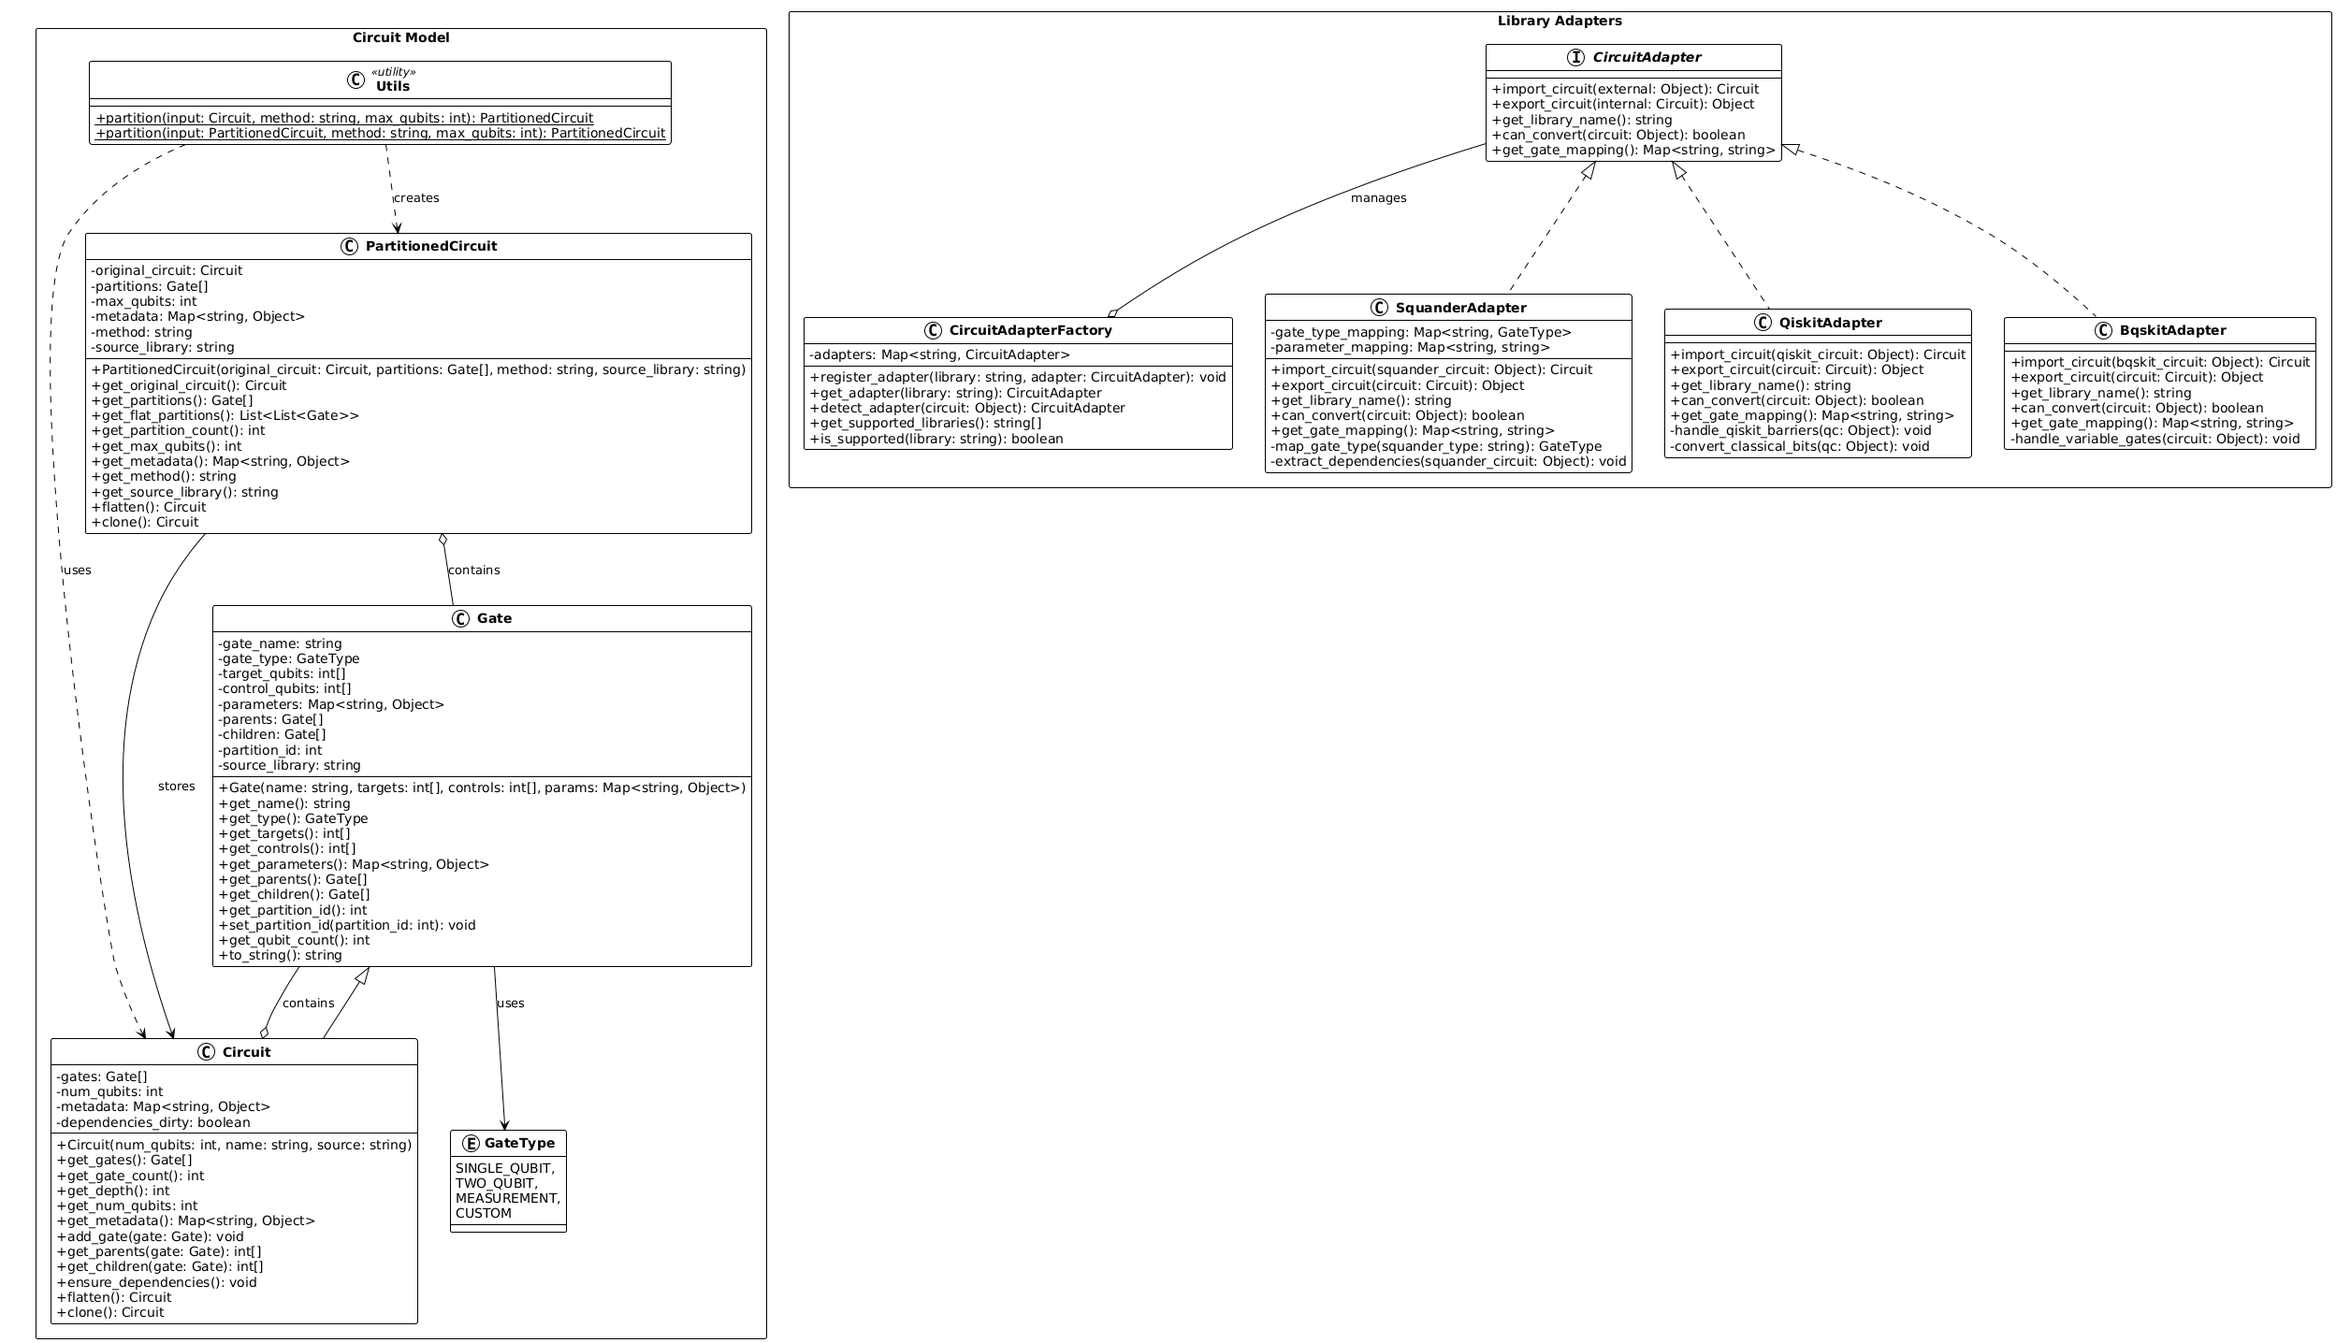
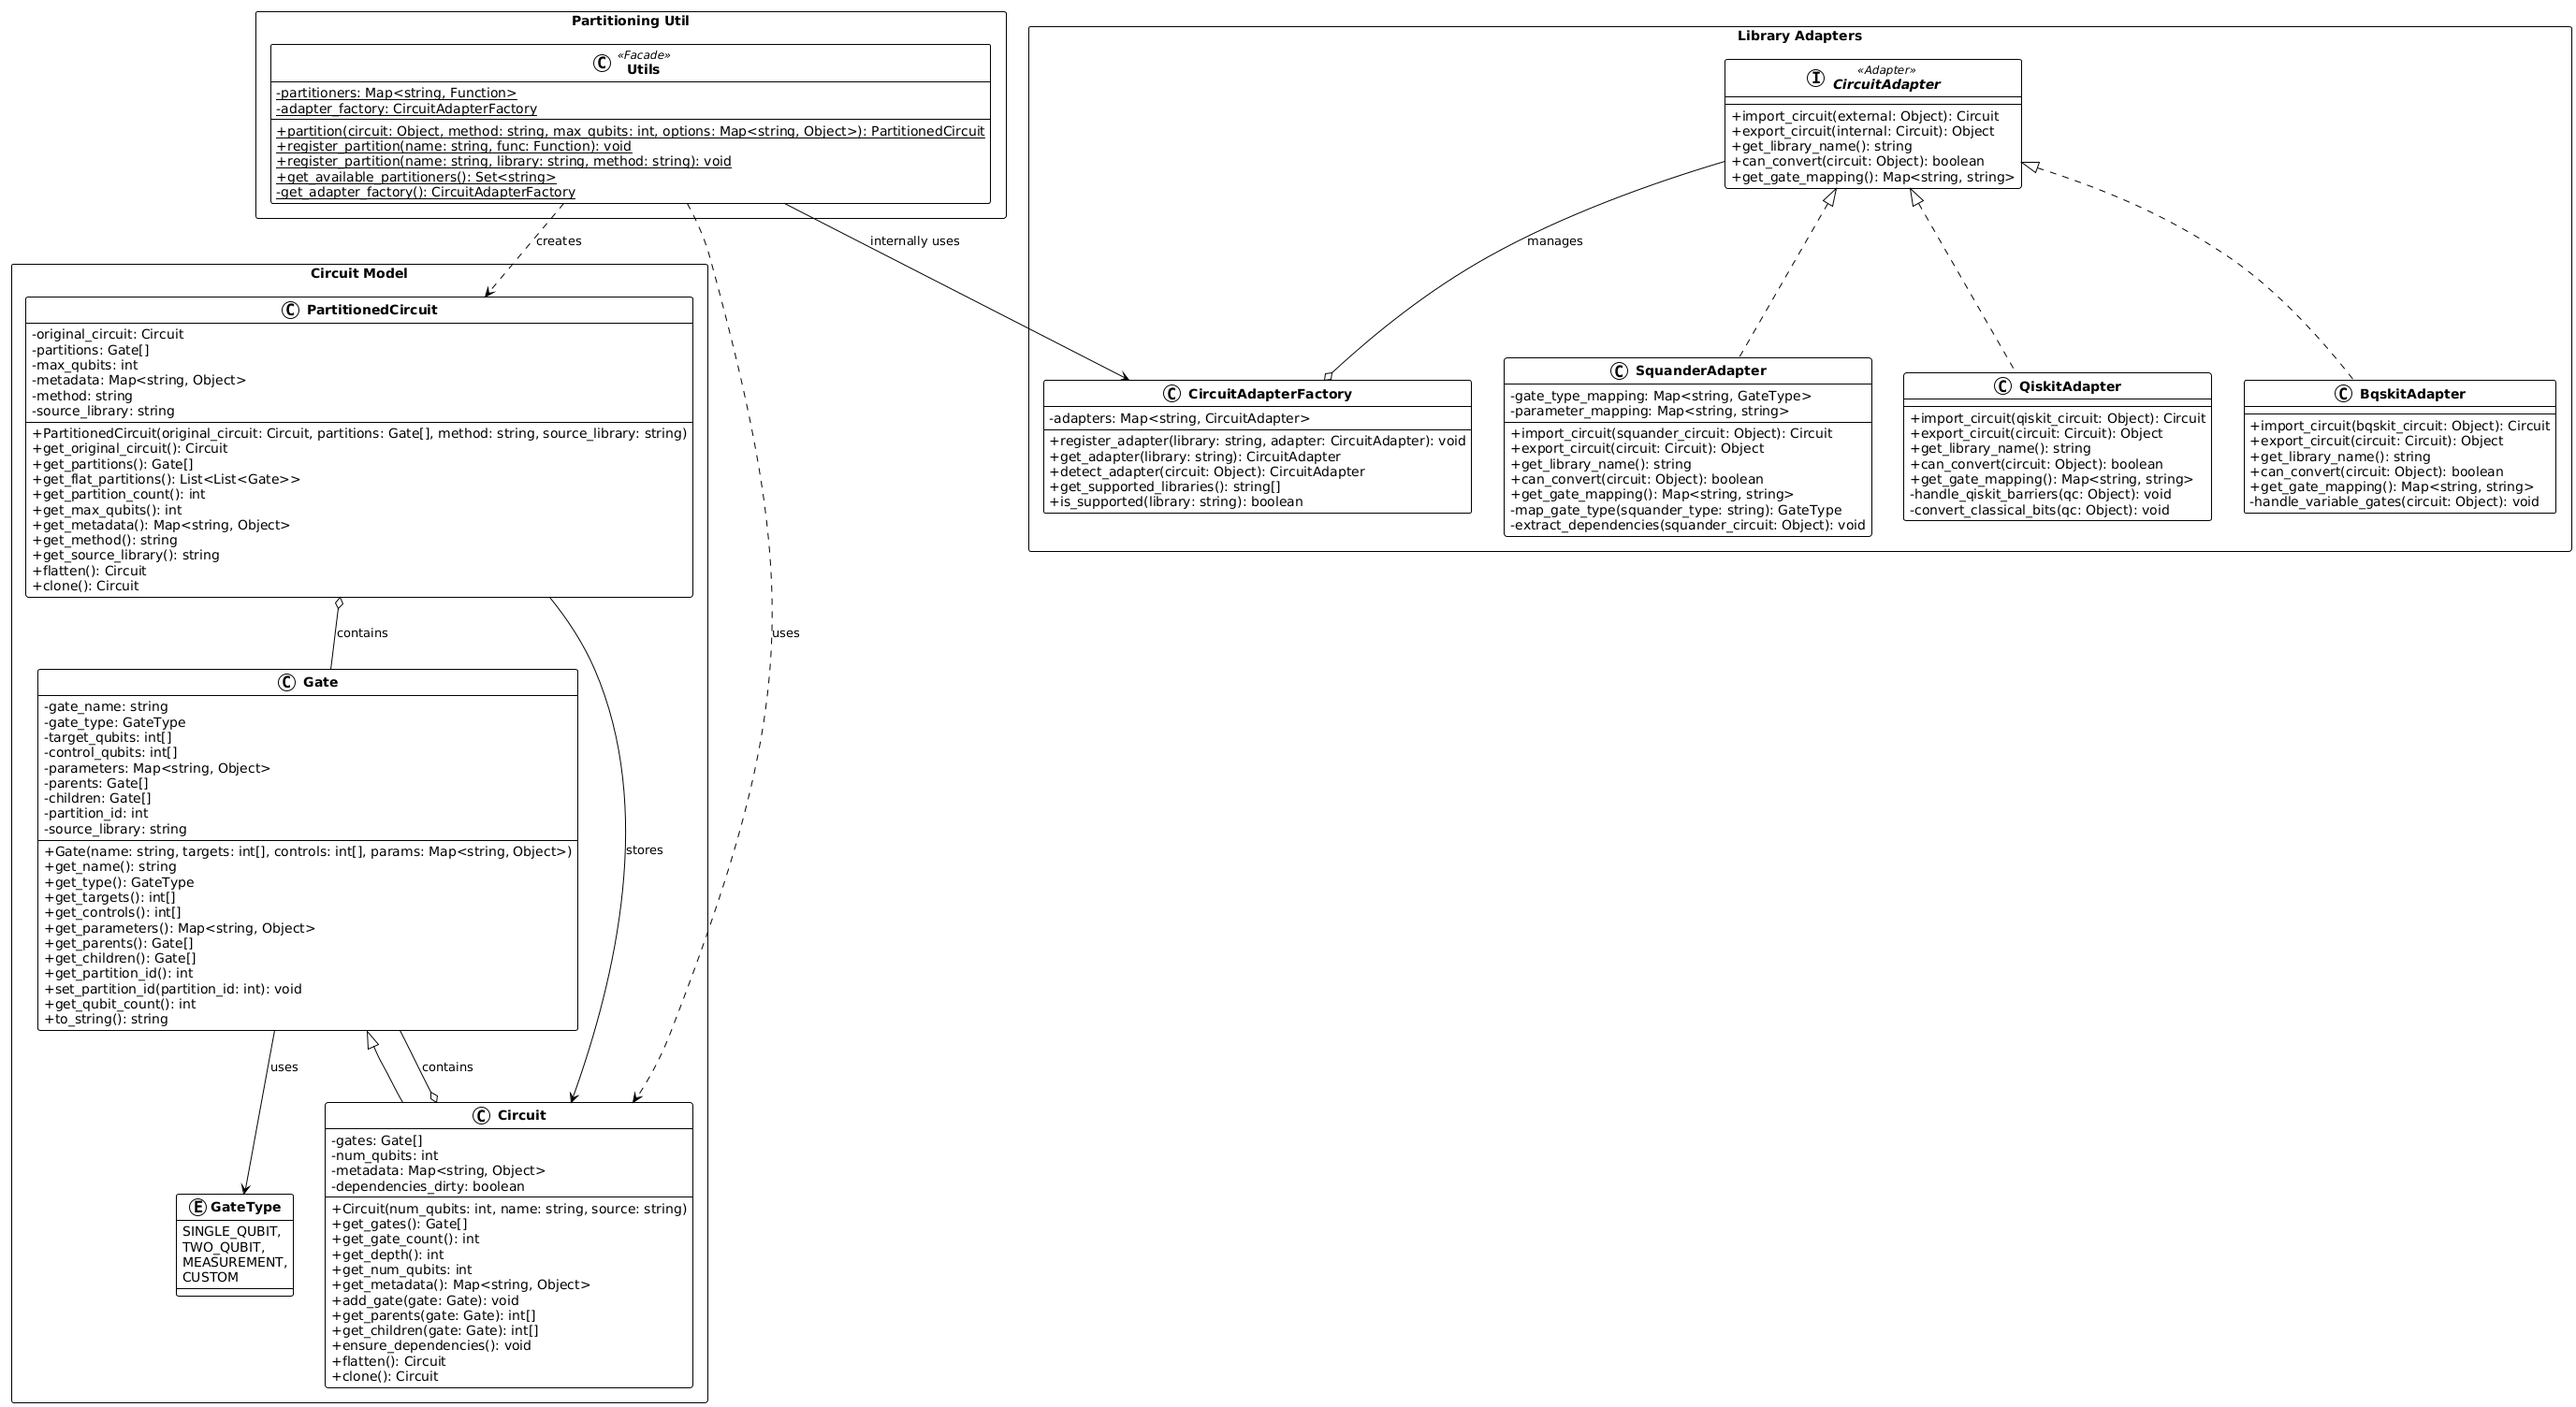
chore: refactor UML diagram and update partitioning utils

diff --git a/packages/qubitkit/UML.md b/packages/qubitkit/UML.md
@@ -79,17 +79,10 @@ package "Circuit Model" {
         + clone(): Circuit
     }
     
-    class Utils<<utility>> {
-        + {static} partition(input: Circuit, method: string, max_qubits: int): PartitionedCircuit
-        + {static} partition(input: PartitionedCircuit, method: string, max_qubits: int): PartitionedCircuit
-    }
-    
     Gate --> GateType : uses
     Circuit o-- Gate : contains
     PartitionedCircuit --> Circuit : stores
     PartitionedCircuit o-- Gate : contains
-    Utils ..> Circuit : uses
-    Utils ..> PartitionedCircuit : creates
     
 }
 
@@ -104,7 +97,7 @@ package "Library Adapters" {
         + is_supported(library: string): boolean
     }
     
-    interface CircuitAdapter {
+    interface CircuitAdapter<<Adapter>> {
         + import_circuit(external: Object): Circuit
         + export_circuit(internal: Circuit): Object
         + get_library_name(): string
@@ -147,6 +140,23 @@ package "Library Adapters" {
     }
     
     CircuitAdapter --o CircuitAdapterFactory : manages
+}
+
+package "Partitioning Util" {
+    class Utils<<Facade>> {
+        - {static} partitioners: Map<string, Function>
+        - {static} adapter_factory: CircuitAdapterFactory
+        --
+        + {static} partition(circuit: Object, method: string, max_qubits: int, options: Map<string, Object>): PartitionedCircuit
+        + {static} register_partition(name: string, func: Function): void
+        + {static} register_partition(name: string, library: string, method: string): void
+        + {static} get_available_partitioners(): Set<string>
+        - {static} get_adapter_factory(): CircuitAdapterFactory
+    }
+    
+    Utils ..> Circuit : uses
+    Utils ..> PartitionedCircuit : creates
+    Utils --> CircuitAdapterFactory : internally uses
 }
 
 @enduml
